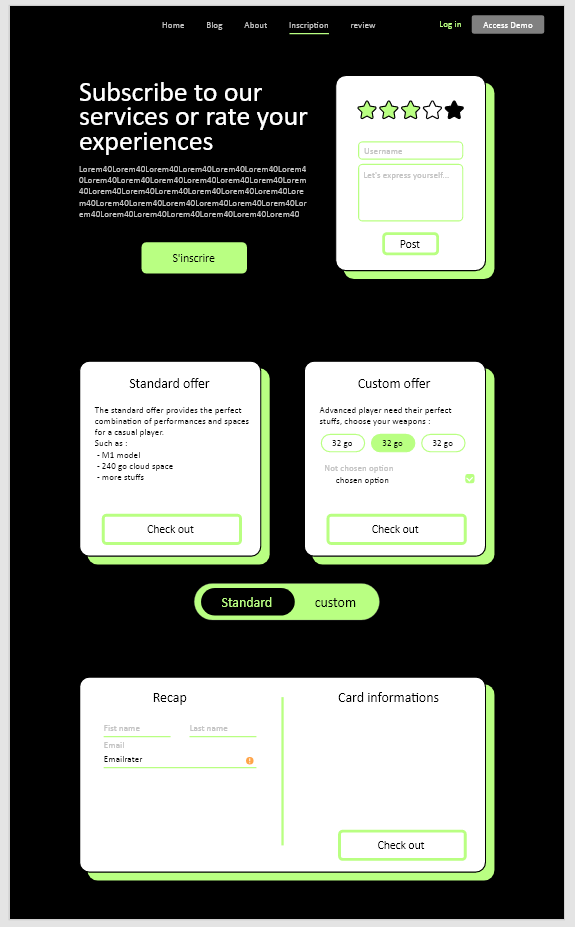
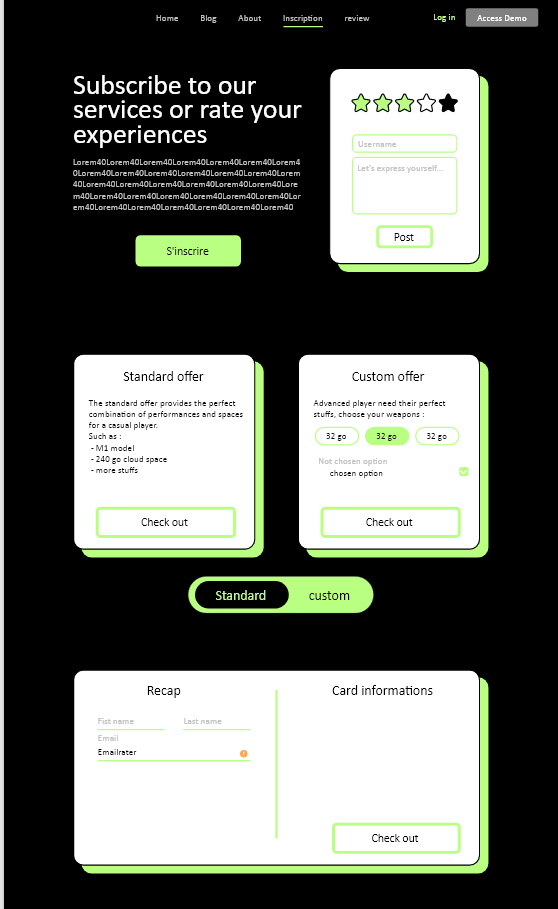
:iphone: Responsive Update

diff --git a/lucie/style.css b/lucie/style.css
@@ -211,9 +211,9 @@ main .centre .left .card img{
     box-shadow: #1b1c1e 15px 15px ;
 }
 
-/* main .centre .left .card .projet{
+main .centre .left .card .projet{
     display: none;
-} */
+}
 
 main .centre .left .fond{
     height: 400px;
@@ -238,7 +238,7 @@ main .centre .left .effect2{
 main .centre .right{
     width: 50%;
     text-align: end;
-    margin-top: 100px;
+    margin-top: 200px;
 }
 
 main .centre .right .titre h1{
@@ -360,8 +360,8 @@ main .centre .right .desc button img{
 
     main .right .effect{
         width: 90px;
-        margin-left: 250px;
-        margin-top: 450px;
+        margin-left: 270px;
+        margin-top: 440px;
         transform: rotateY(180deg);
         position: absolute;
     }
@@ -385,7 +385,7 @@ main .centre .right .desc button img{
         z-index: -1;
         margin-top: -410px;
         margin-left: 50px;
-        transform: rotate(15deg);
+        transform: rotate(5deg);
         border: #1b1c1e 2px solid;
         box-shadow: #1b1c1e 15px 15px ;
     }
@@ -403,39 +403,38 @@ main .centre .right .desc button img{
     }
 
     main .centre .left .effect{
-        display: none;
+        margin-top: 550px;
+        margin-left: -50px;
+        position: absolute;
     }
 
     main .centre .left .card{
-        display: none;
         width: 100%;
-        margin-left: -50px;
-        margin-top: 10px;
+        margin-left: -40px;
+        margin-top: 680px;
+        height: 600px;
     }
 
-    /* main .centre .left .card img{
+    main .centre .left .card img{
         display: none;
-    } */
+    }
 
     main .centre .left .card .projet{
         display: block;
-        /* width: 90%;
-        border-bottom: white 2px solid;
-        border-right: white 2px solid;
-        box-shadow: #1b1c1e 15px 15px ; */
+        width: 80%;
     }
 
     main .centre .left .fond{
-        display: none;  
-        height: 150px;
-        width: 300px;
+        height: 450px;
+        width: 250px;
         background-color: var(--vert);
         position: absolute;
         z-index: -1;
-        margin-top: -150px;
+        margin-top: -600px;
         transform: rotate(15deg);
         border: #1b1c1e 2px solid;
         box-shadow: #1b1c1e 15px 15px ;
+        margin-left: -8px;
     }
 
     main .centre .left .effect2{
